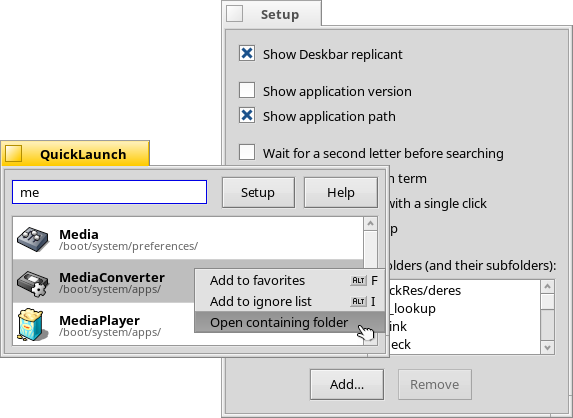
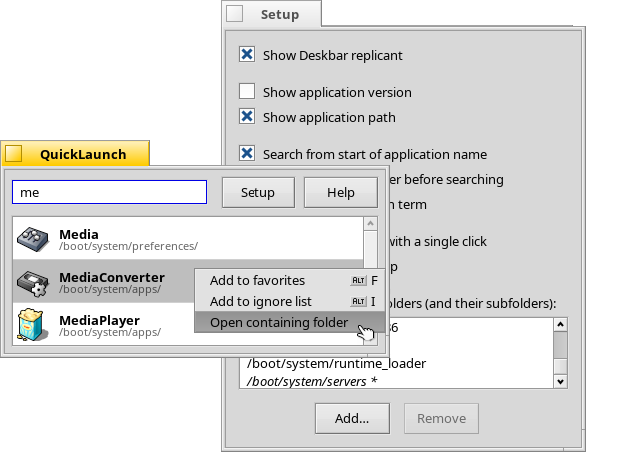
Update documentation

diff --git a/ReadMe.html b/ReadMe.html
@@ -90,7 +90,7 @@ h3 {
 <body>
 <div align = "center">
 <img width="64" height="64" src="./images/quicklaunch_icon_64.png" alt="QuickLaunch icon" />
-<p><span style="font-size: 1.5em; font-weight:bold">QuickLaunch v1.2</span><br />
+<p><span style="font-size: 1.5em; font-weight:bold">QuickLaunch v1.3</span><br />
 for <a href="https://www.haiku-os.org">Haiku</a><br />
 <i>by Humdinger</i></p>
 <hr />
@@ -143,6 +143,7 @@ A right-click on it also offers quick access to your favorites.</p>
 <li><p><span class="menu">Show Deskbar replicant</span> — puts the QuickLaunch icon into the Deskbar tray. A left-click on it starts QuickLaunch, with a right-click you can start your favorite applications directly from the context menu.</p></li>
 <li><p><span class="menu">Show the version of an application</span> — only really useful when having older and newer versions of an app installed.</p></li>
 <li><p><span class="menu">Show the path to an application</span> —  interesting when you have several copies of an application.</p></li>
+<li><p><span class="menu">Search from start of application name</span> —  when unchecked, finds all applications with the search term anywhere in their name, not only with those initial letters. Same as starting a search with a '*' as first letter.</p></li>
 <li><p><span class="menu">Wait for a second letter before starting the search</span> — probably only useful for slow systems.</p></li>
 <li><p><span class="menu">Remember last search term</span> — starts QuickLaunch with the previous search.</p></li>
 <li><p><span class="menu">Launch applications with a single click</span> —  instead of requiring the usual double-click.</p></li>
@@ -158,7 +159,7 @@ You can also right-click an app in the main window's result list to add that spe
 <a id="tips" name="tips">Tips &amp; Tricks</a></h2>
 <ul>
 <li><p>Assign a keycombo to QuickLaunch in Haiku's Shortcuts preferences, like <span class="key">OPT</span>+<span class="key">SPACEBAR</span>, for even quicker QuickLaunching apps.</p></li>
-<li><p>Use '*' as wildcards, e.g. "*play" for all apps with "play" in their name.</p></li>
+<li><p>Use '*' as wildcards, e.g. "*play" for all apps with "play" in their name. </p></li>
 <li><p><span class="key">SHIFT</span>+<span class="key">RETURN</span> will keep the QuickLaunch window open after launching the app.</p></li>
 <li><p><span class="key">CTRL</span>+<span class="key">RETURN</span> will open an app's location in Tracker instead of launching it.</p></li>
 <li><p>These folders are ignored by default:<br />
@@ -184,7 +185,7 @@ You can also build it yourself using <a href="https://github.com/haikuports">Hai
 <a href="#"><img src="images/up.png" style="border:none;float:right" alt="index" /></a>
 <a id="bugs_feedback" name="bugs_feedback">Bugreports &amp; Feedback</a></h2>
 <p>Please use GitHub's <a href="https://github.com/humdingerb/quicklaunch/issues">issue tracker</a> if you experience unusual difficulties or email your general feedback to <a href="mailto:humdingerb@gmail.com">me</a>. Also, email me if you'd like to provide more localizations.</p>
-<p>I'd be very grateful for any further translations for QuickLaunch and other applications at <a href="https://i18n.haiku-os.org/pootle/projects/3rd_party/">Pootle's '3rd party apps' project</a>.</p>
+<p>I'd be very grateful for further translations for QuickLaunch and other applications at <a href="https://i18n.kacperkasper.pl/">Polyglot</a>.</p>
 <h2>
 <a href="#"><img src="images/up.png" style="border:none;float:right" alt="index" /></a>
 <a id="thanks" name="thanks">Thanks</a></h2>
@@ -196,6 +197,12 @@ Finally, thanks to everyone that contributed translations and bug reports for Qu
 <h2>
 <a href="#"><img src="images/up.png" style="border:none;float:right" alt="index" /></a>
 <a id="history" name="history">History</a></h2>
+<p><b>1.3</b> - <i>:</i></p>
+<ul>
+<li>Add option to look for applications with the search term anywhere in their name, not just as their initial letters. Thanks to Kevin Adams for the patch. 
+</li>
+</ul>
+
 <p><b>1.2</b> - <i>11-05-2017:</i></p>
 <ul>
 <li>Favorites can now be drag &amp; dropped on apps that accept a program, like LaunchBox - or in fact the ignore list of the Setup window.
